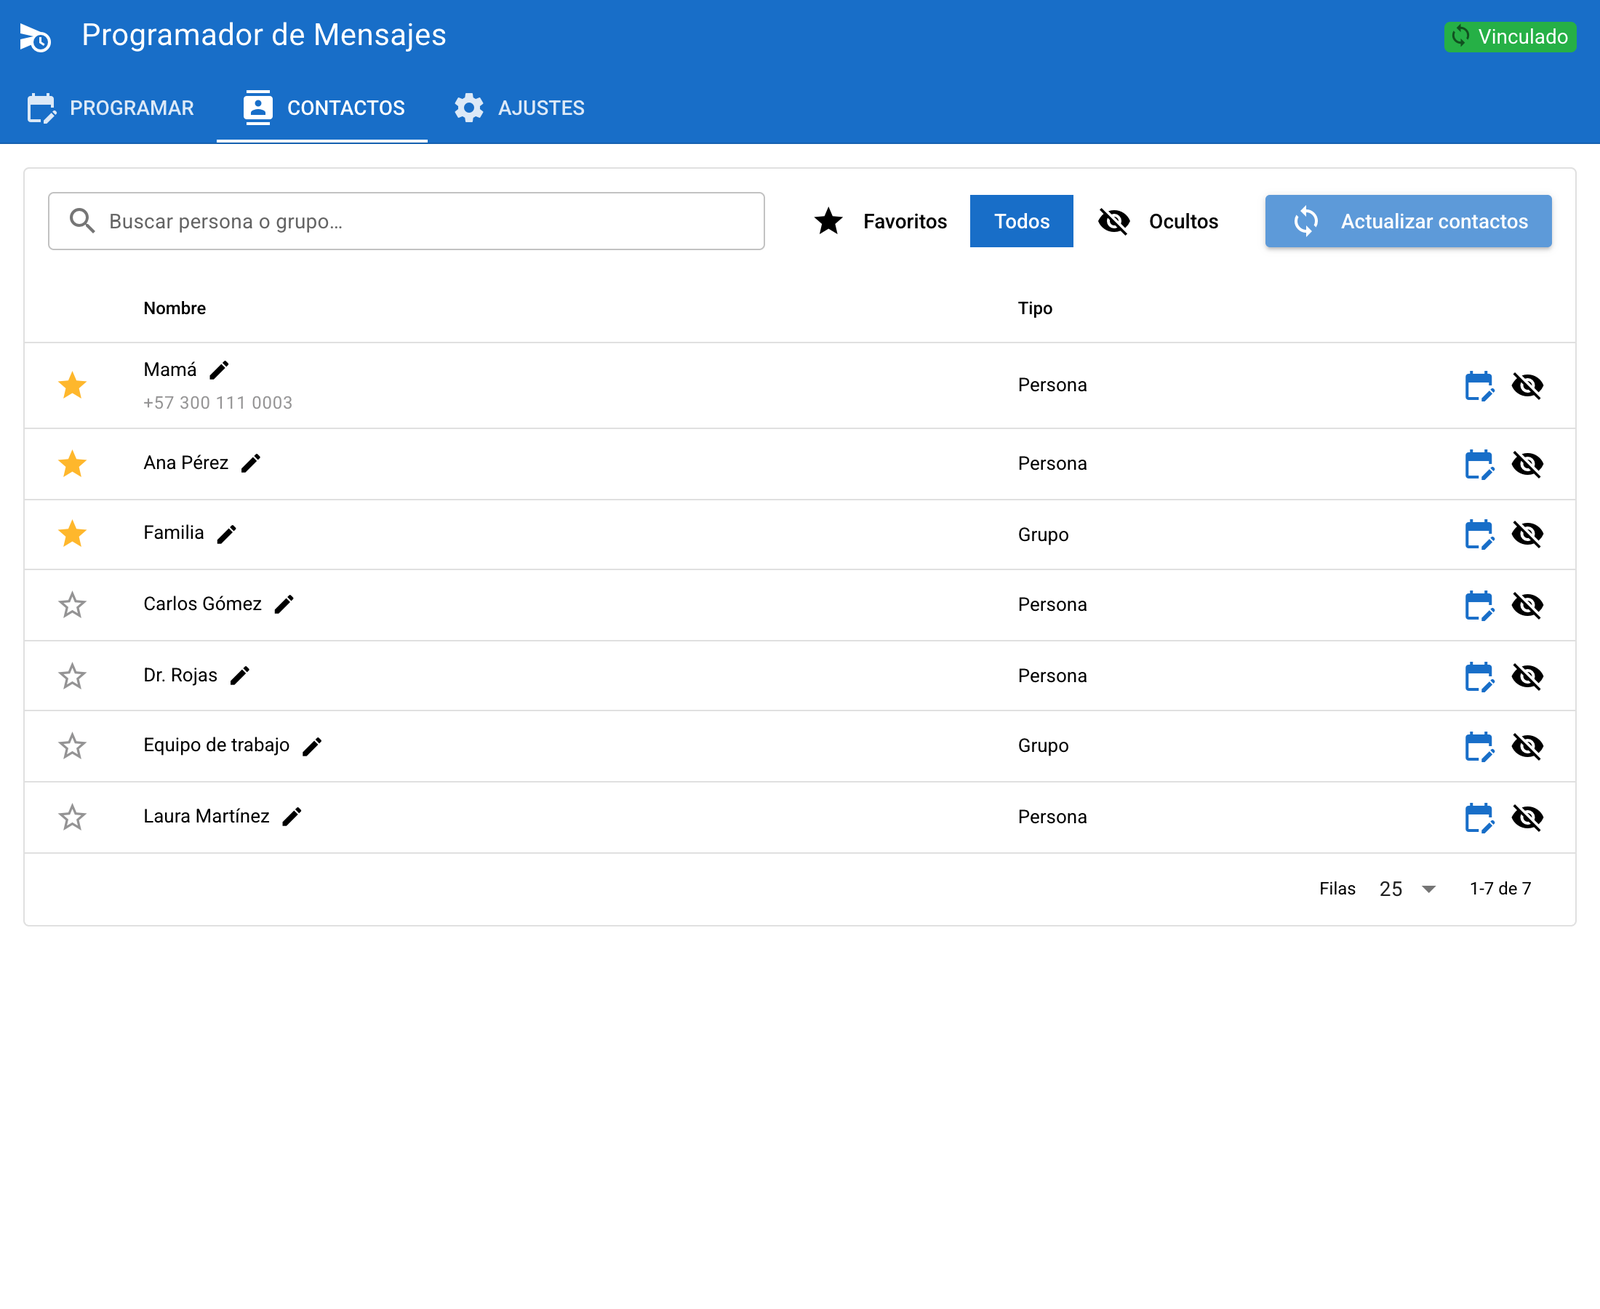
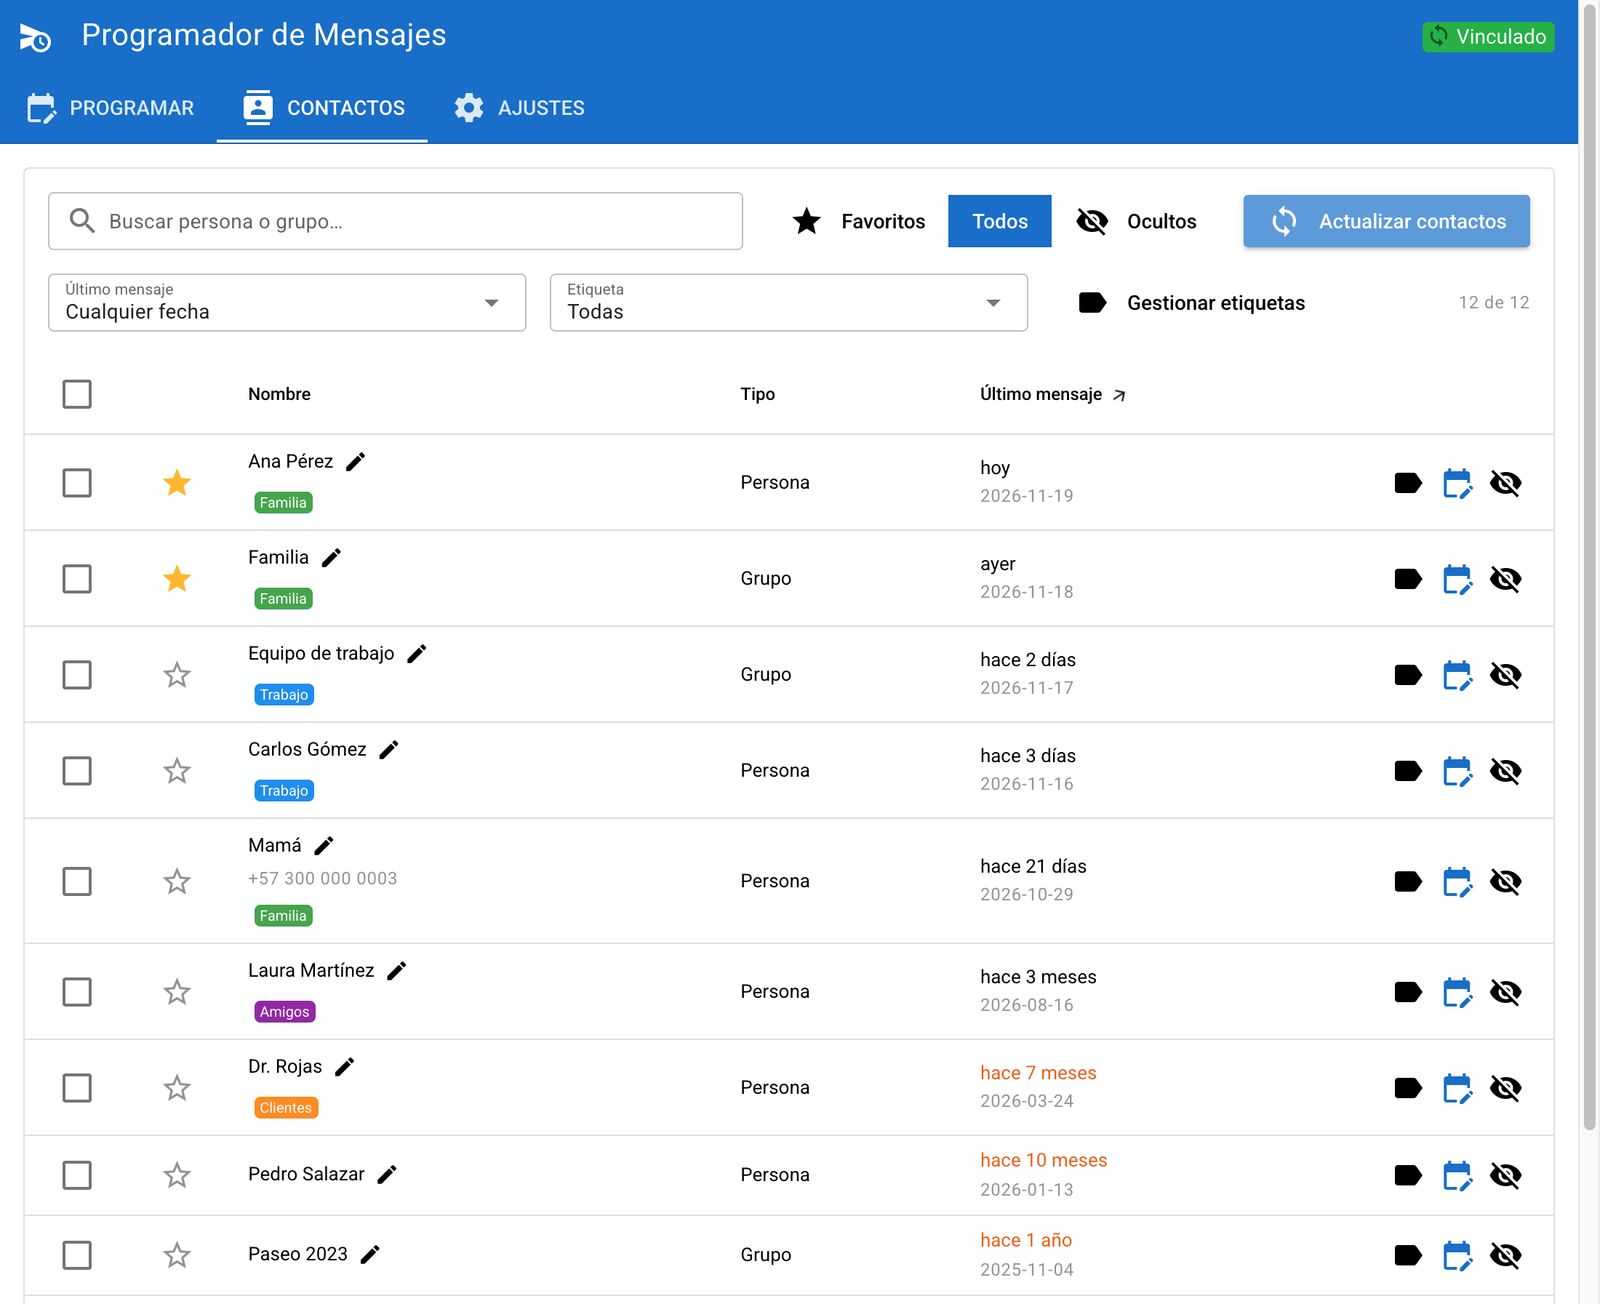
Web: nuevas funciones de contactos (último mensaje, etiquetas, acciones por lote) y capturas nuevas

diff --git a/index.html b/index.html
@@ -71,6 +71,9 @@
   .dos { display: grid; grid-template-columns: 1fr 1fr; gap: 16px; }
   @media (max-width: 760px) { .dos { grid-template-columns: 1fr; } }
   .dos ol { margin: 8px 0 0; padding-left: 20px; color: var(--muted); font-size: 15.5px; }
+  .fig { margin: 0; }
+  .fig figcaption { margin-top: 10px; color: var(--muted); font-size: 15px; }
+  .fig figcaption b { color: var(--text); }
   .aviso { background: var(--warn-bg); color: var(--warn); border-radius: 12px; padding: 14px 16px; font-size: 15px; margin-top: 18px; }
   details { background: var(--surface); border: 1px solid var(--line); border-radius: 12px; padding: 14px 18px; margin-bottom: 10px; }
   summary { cursor: pointer; font-weight: 600; }
@@ -86,6 +89,7 @@
     <strong>Programador de Mensajes</strong>
     <nav>
       <a href="#funciones">Funciones</a>
+      <a href="#contactos">Contactos</a>
       <a href="#instalar">Instalar</a>
       <a href="#preguntas">Preguntas</a>
     </nav>
@@ -117,12 +121,30 @@
         <div class="card"><div class="ico">🔁</div><h3>Mensajes que se repiten</h3><p>Cada día, semana, mes o año: ideal para cumpleaños y recordatorios. La serie sigue sola.</p></div>
         <div class="card"><div class="ico">📝</div><h3>Plantillas</h3><p>Guarda los textos que repites y úsalos con un clic.</p></div>
         <div class="card"><div class="ico">📎</div><h3>Fotos y archivos</h3><p>Adjunta una imagen o un documento (hasta 15 MB); el texto va como pie.</p></div>
-        <div class="card"><div class="ico">⭐</div><h3>Favoritos y alias</h3><p>Marca tus contactos favoritos, ponles un alias a los números sin nombre y oculta los chats que no usas.</p></div>
+        <div class="card"><div class="ico">⭐</div><h3>Favoritos y alias</h3><p>Marca tus contactos favoritos y ponles un alias a los números sin nombre. Los favoritos quedan a un clic al programar.</p></div>
+        <div class="card"><div class="ico">📅</div><h3>Cuándo hablaron por última vez</h3><p>Cada contacto muestra la fecha de su último mensaje. Filtra los que llevan meses sin actividad para decidir a quién ocultar.</p></div>
+        <div class="card"><div class="ico">🏷</div><h3>Etiquetas con color</h3><p>Familia, Trabajo, Clientes… crea las tuyas, asígnalas y filtra por ellas. Viven solo en la app: no cambian tu WhatsApp.</p></div>
+        <div class="card"><div class="ico">🧹</div><h3>Ordena tu lista en un paso</h3><p>Selecciona varios contactos y ocúltalos, muéstralos o etiquétalos de una vez. Ocultar no borra nada.</p></div>
         <div class="card"><div class="ico">🔔</div><h3>Siempre en segundo plano</h3><p>Cierra la ventana y sigue funcionando desde la bandeja. Puede iniciarse con tu computador y te avisa si algo falla.</p></div>
         <div class="card"><div class="ico">🔒</div><h3>Tus datos, en tu equipo</h3><p>No hay servidor ni cuenta. Mensajes, contactos y sesión se guardan solo en tu computador, con copia diaria automática.</p></div>
         <div class="card"><div class="ico">💬</div><h3>Contexto antes de enviar</h3><p>Mira los últimos mensajes de un chat (solo lectura) antes de programar el tuyo.</p></div>
+        <div class="card"><div class="ico">⏳</div><h3>Sabes qué está pasando</h3><p>Al vincular, una barra de progreso te muestra cómo avanza la carga de WhatsApp en vez de dejarte esperando a ciegas.</p></div>
       </div>
-      <img class="captura" style="margin-top:26px" src="assets/contactos.png" alt="Pantalla de Contactos: lista con favoritos, alias y opciones para ocultar" width="1600" height="1309">
+    </section>
+
+    <section id="contactos">
+      <h2>Pon orden en tus contactos</h2>
+      <p class="sub">Con cientos de chats, decidir cuáles ocultar o agrupar es lo más tedioso. Aquí ves la información que necesitas.</p>
+      <div class="dos">
+        <figure class="fig">
+          <img class="captura" src="assets/contactos.png" alt="Lista de contactos con fecha del último mensaje, favoritos y etiquetas de colores" width="1600" height="1304" loading="lazy">
+          <figcaption><b>Todo a la vista.</b> Fecha del último mensaje, favoritos, alias y etiquetas de colores; ordena por la última conversación.</figcaption>
+        </figure>
+        <figure class="fig">
+          <img class="captura" src="assets/limpiar.png" alt="Contactos con más de 6 meses sin mensajes, seleccionados para ocultarlos o etiquetarlos de una vez" width="1600" height="1072" loading="lazy">
+          <figcaption><b>Limpia en un paso.</b> Filtra los que llevan más de 6 meses sin actividad, selecciónalos y ocúltalos o etiquétalos juntos.</figcaption>
+        </figure>
+      </div>
     </section>
 
     <section id="instalar">
@@ -163,6 +185,7 @@
       <details><summary>¿Qué pasa si mi computador está apagado a la hora del mensaje?</summary><p>La app debe estar encendida para enviar. Si estuvo apagada y la hora ya pasó por más de 15 minutos, el mensaje queda como «vencido» y no sale solo: tú decides si enviarlo o borrarlo. Con «Iniciar con el sistema» arranca sola al encender el equipo.</p></details>
       <details><summary>¿Mis mensajes y contactos se suben a algún lado?</summary><p>No. Todo se guarda en tu computador. La app solo se comunica con WhatsApp, como lo hace WhatsApp Web.</p></details>
       <details><summary>¿Puede bloquearme WhatsApp la cuenta?</summary><p>Esta app usa una librería no oficial que se conecta como WhatsApp Web. Para uso personal y pocos mensajes a contactos que te conocen el riesgo es bajo, pero existe. No la uses para spam ni envíos masivos.</p></details>
+      <details><summary>¿Las etiquetas y los contactos ocultos cambian mi WhatsApp?</summary><p>No. Las etiquetas, los alias, los favoritos y los contactos ocultos existen solo dentro de la app, en tu computador. Ocultar un contacto no lo borra ni cambia tu WhatsApp: puedes volver a mostrarlo cuando quieras.</p></details>
       <details><summary>¿Necesito tener Chrome?</summary><p>Necesita Chrome o Edge. Si no encuentra ninguno, descarga Chrome una sola vez al primer arranque.</p></details>
       <details><summary>¿Cómo la desinstalo?</summary><p>En Mac, arrastra la app a la papelera. En Windows, desinstálala desde <em>Configuración → Aplicaciones</em>. Para borrar también tus datos, elimina la carpeta «Programador de Mensajes» de <code>~/Library/Application Support</code> (Mac) o <code>%APPDATA%</code> (Windows).</p></details>
     </section>

diff --git a/README.md b/README.md
@@ -19,7 +19,8 @@ Todo queda en tu computador: sin nube, sin cuentas y sin costo.
 - **Hora en lenguaje natural:** escribe «mañana 8am», «en 2 horas» o «lunes 9:30», o elige fecha y hora en el calendario.
 - **Mensajes que se repiten:** cada día, semana, mes o año (cumpleaños, recordatorios).
 - **Plantillas** para los textos que repites y **adjuntos** (imágenes o archivos de hasta 15 MB).
-- **Favoritos, alias y ocultar** contactos; **ver los últimos mensajes** de un chat antes de programar (solo lectura).
+- **Contactos:** favoritos, alias, **fecha del último mensaje** (con filtro de inactividad), **etiquetas con color** y acciones sobre varios contactos a la vez (ocultar, mostrar, etiquetar). Todo vive solo en la app; tu WhatsApp no cambia.
+- **Ver los últimos mensajes** de un chat antes de programar (solo lectura).
 - **Segundo plano:** al cerrar la ventana sigue en la bandeja del sistema enviando tus mensajes. Puede iniciarse con el computador y te avisa si algo falla.
 - **Privado:** mensajes, contactos y sesión se guardan solo en tu equipo, con copia automática diaria.
 
